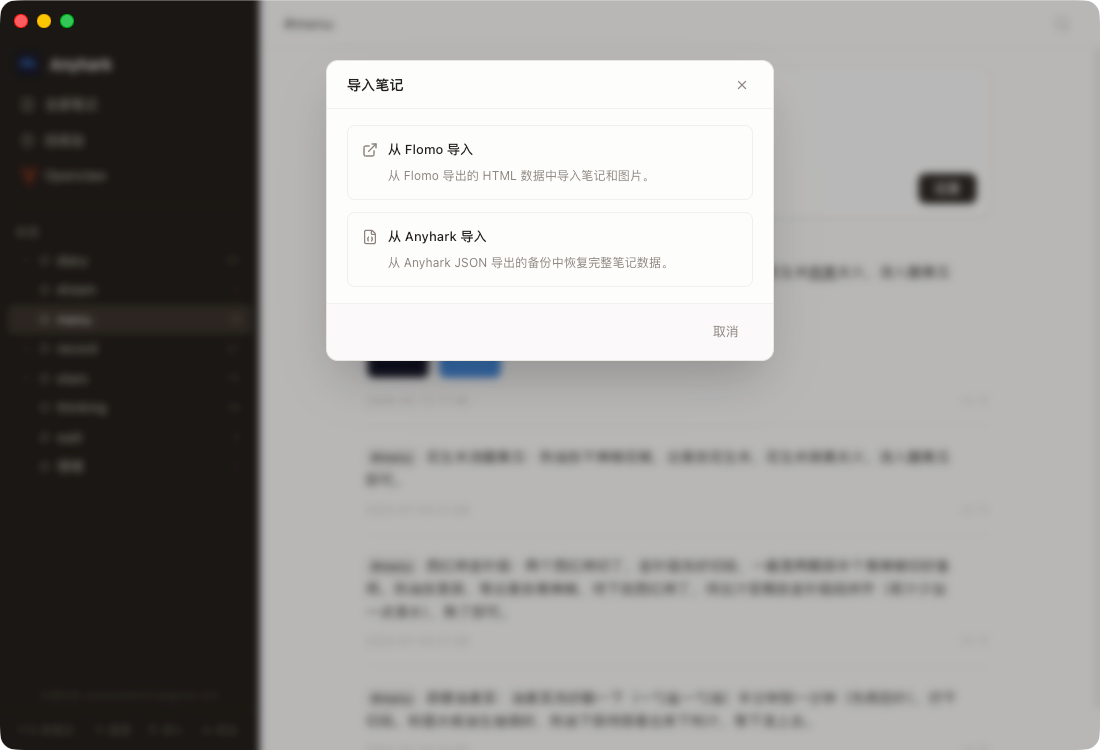
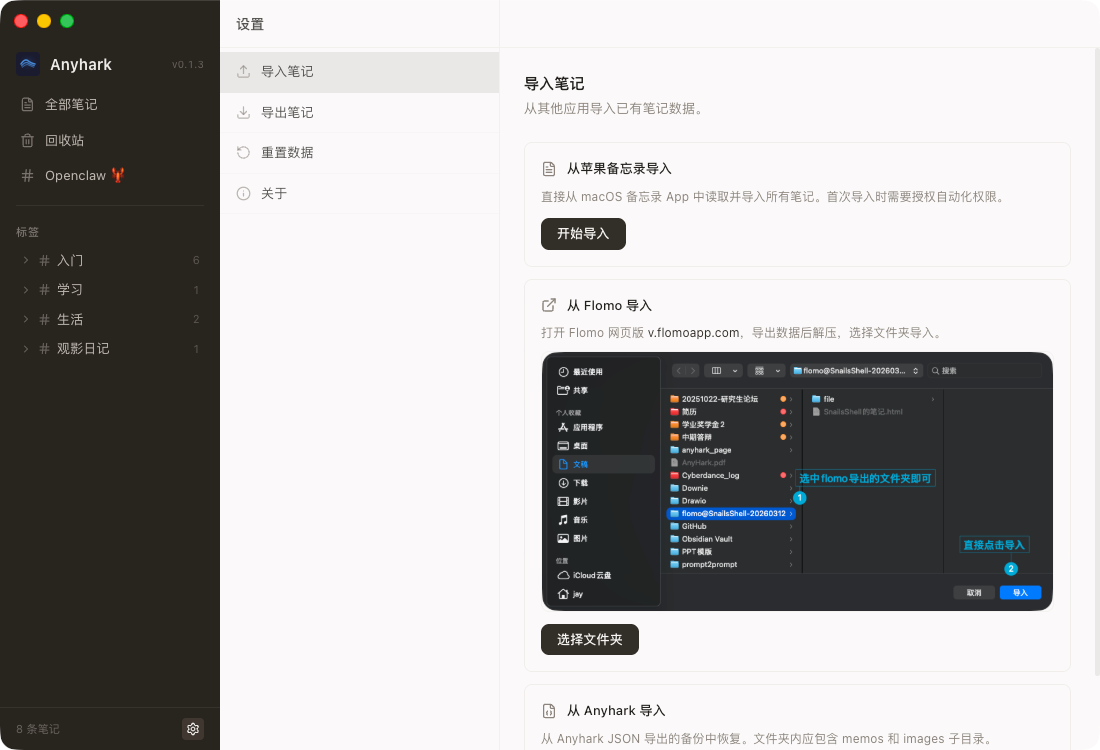
chore: update README, example images, seed notes and sidebar for v0.1.3
- README: reflect auto-save, three-column layout, settings-based import
- Seed notes: use mark format for mentions, add Openclaw intro note, update UI references
- Sidebar: move Openclaw entry below recycle bin
- Update all example screenshots

Made-with: Cursor

diff --git a/src/main/services/seed.service.ts b/src/main/services/seed.service.ts
@@ -19,11 +19,19 @@ function tag(p: string): TipTapNode {
 }
 
 function mentionLink(url: string, label: string): TipTapNode {
-  return { type: 'mention-link', attrs: { url, label } }
+  return {
+    type: 'text',
+    text: `🔗 ${label}`,
+    marks: [{ type: 'mention-link', attrs: { url } }]
+  }
 }
 
-function mentionNote(memoId: string): TipTapNode {
-  return { type: 'mention-note', attrs: { memoId, label: '@Note' } }
+function mentionNote(memoId: string, label: string): TipTapNode {
+  return {
+    type: 'text',
+    text: label,
+    marks: [{ type: 'mention-note', attrs: { memoId } }]
+  }
 }
 
 function paragraph(...content: TipTapNode[]) {
@@ -41,8 +49,6 @@ function extractPlain(content: TipTapDocument): string {
       for (const child of node.content) {
         if (child.text) parts.push(child.text)
         else if (child.type === 'tag' && child.attrs?.label) parts.push(String(child.attrs.label))
-        else if (child.type === 'mention-note') parts.push('@Note')
-        else if (child.type === 'mention-link' && child.attrs?.label) parts.push(String(child.attrs.label))
       }
     }
   }
@@ -74,7 +80,7 @@ export async function seedExampleMemos(): Promise<void> {
         text(' 即可创建标签，用 / 实现多级分类。左侧面板会自动构建标签树，方便你快速筛选。')
       ),
       paragraph(
-        text('如果你之前在其他 APP 已有笔记，可以点击左下角的「导入」按钮一键迁移（目前支持 Flomo，后续会陆续支持更多应用）。')
+        text('如果你之前在其他 APP 已有笔记，可以点击左下角 ⚙ 设置，选择「导入笔记」一键迁移（目前支持 Flomo APP 和苹果备忘录）。')
       )
     ),
     ['入门/欢迎'],
@@ -151,9 +157,12 @@ export async function seedExampleMemos(): Promise<void> {
     doc(
       paragraph(tag('入门/网址'), text(' 可以用 @ 给笔记添加链接')),
       paragraph(
+        text('在编辑笔记时输入 @，选择「插入网址」，填写链接和显示名称即可。')
+      ),
+      paragraph(
         text('比如 '),
         mentionLink('https://snailsshell.com', '碎蜗牛壳的个人网页'),
-        text(' ← 点击蓝色标签即可复制链接到剪贴板。')
+        text(' ← 点击即可复制链接到剪贴板。')
       )
     ),
     ['入门/网址'],
@@ -172,14 +181,31 @@ export async function seedExampleMemos(): Promise<void> {
     3
   )
 
-  // Note 8 (newest / top) — @Note jump targeting note1 (bottom)
+  // Note 8 — Openclaw AI Agent
+  await seed(
+    doc(
+      paragraph(tag('入门/Openclaw'), text(' 让 AI Agent 帮你操作笔记 🦞')),
+      paragraph(
+        text('点击左侧的 Openclaw 🦞 按钮，复制 Prompt 发给你的 AI Agent，它就能学会读写你的 Anyhark 笔记了。')
+      ),
+      paragraph(text('支持 Cursor、Codex、Claude Code、Openclaw 等本地 AI 工具。'))
+    ),
+    ['入门/Openclaw'],
+    [],
+    2
+  )
+
+  // Note 9 (newest / top) — @Note jump targeting note1 (bottom)
   await seed(
     doc(
       paragraph(tag('入门/引用'), text(' 输入 @ 可以引用其他笔记')),
       paragraph(
-        text('试试点击这个 '),
-        mentionNote(note1.id),
-        text(' 标签，会跳转到最下方的欢迎笔记 ↓')
+        text('在编辑笔记时输入 @，会弹出笔记列表供你检索选择。选中后会生成引用标签，点击即可跳转。')
+      ),
+      paragraph(
+        text('试试点击 '),
+        mentionNote(note1.id, '@Note-入门/欢迎-欢迎来到Anyhark'),
+        text(' ，会跳转到欢迎笔记 ↓')
       ),
       paragraph(text('开始记录属于你的第一条笔记吧！'))
     ),

diff --git a/src/renderer/src/components/layout/Sidebar.tsx b/src/renderer/src/components/layout/Sidebar.tsx
@@ -128,6 +128,15 @@ export function Sidebar(): React.JSX.Element {
         setCurrentView('recycle')
         loadDeletedMemos()
       }
+    },
+    {
+      id: 'openclaw' as const,
+      label: 'Openclaw 🦞',
+      icon: Hash,
+      onClick: () => {
+        setCurrentView('settings')
+        useUIStore.getState().setSelectedSettingId('openclaw')
+      }
     }
   ]
 
@@ -153,7 +162,10 @@ export function Sidebar(): React.JSX.Element {
       {/* Nav items */}
       <nav className="px-2 space-y-0.5 flex-shrink-0 mt-1">
         {navItems.map((item) => {
-          const isActive = currentView === item.id
+          const isActive =
+            item.id === 'openclaw'
+              ? currentView === 'settings' && useUIStore.getState().selectedSettingId === 'openclaw'
+              : currentView === item.id
           return (
             <button
               key={item.id}

diff --git a/src/renderer/src/components/layout/NoteListPanel.tsx b/src/renderer/src/components/layout/NoteListPanel.tsx
@@ -39,7 +39,6 @@ interface SettingMenuItem {
 const SETTING_ITEMS: SettingMenuItem[] = [
   { id: 'import', label: '导入笔记', icon: Upload },
   { id: 'export', label: '导出笔记', icon: Download },
-  { id: 'openclaw', label: 'Openclaw', icon: Upload, iconEmoji: '🦞' },
   { id: 'reset', label: '重置数据', icon: RotateCcw },
   { id: 'about', label: '关于', icon: Info }
 ]

diff --git a/README.md b/README.md
@@ -61,13 +61,13 @@
 
 ### 记笔记
 
-打开应用，在顶部编辑区写内容，点「记录」保存。
+打开应用，在中间笔记列表顶部点 ➕ 新建笔记，右侧即可开始编辑，所有修改自动保存。
 
 想分类的话，在内容里写 `#标签名` 就行，比如 `#读书笔记 今天看了...`。左侧边栏会自动出现对应的标签，点标签可以筛选。
 
 ### 导入旧数据
 
-点底部的「导入」按钮，目前支持：
+点左下角 ⚙ 进入设置，选择「导入笔记」，目前支持：
 
 - **苹果备忘录**（macOS）— 直接从备忘录 App 读取，无需手动导出。导入后原文中的 `#` 会转为 `+` 以避免标签冲突，每条笔记自动添加 `#AppleNotes/文件夹/前5字` 标签，可配合 AI Agent 进一步整理。
 - **Flomo** — 在 Flomo 网页版导出数据，选择导出的文件夹即可导入笔记和图片。
@@ -82,7 +82,7 @@
 
 ### 历史版本
 
-每条笔记修改后会自动保存历史。在笔记卡片上点击时间戳旁的版本按钮，可以查看、还原或删除旧版本。
+每条笔记修改后会自动保存历史。在右侧详情面板的底部状态栏点击版本按钮，可以查看、还原或删除旧版本。
 
 <p align="center">
   <img src="docs/images/使用示例-笔记历史版本管理.png" width="720" alt="历史版本" />
@@ -108,7 +108,7 @@
   <img src="docs/images/Openclaw接入演示-操作笔记.png" width="720" alt="AI 帮你记笔记" />
 </p>
 
-让 AI 听见你，与Ta，与自己深度对话，：
+让 AI 听见你，与 Ta，与自己深度对话：
 
 <p align="center">
   <img src="docs/images/Openclaw接入示例-通过预置SKILL学会操作Anyhark.png" width="720" alt="AI 帮你记笔记" />
